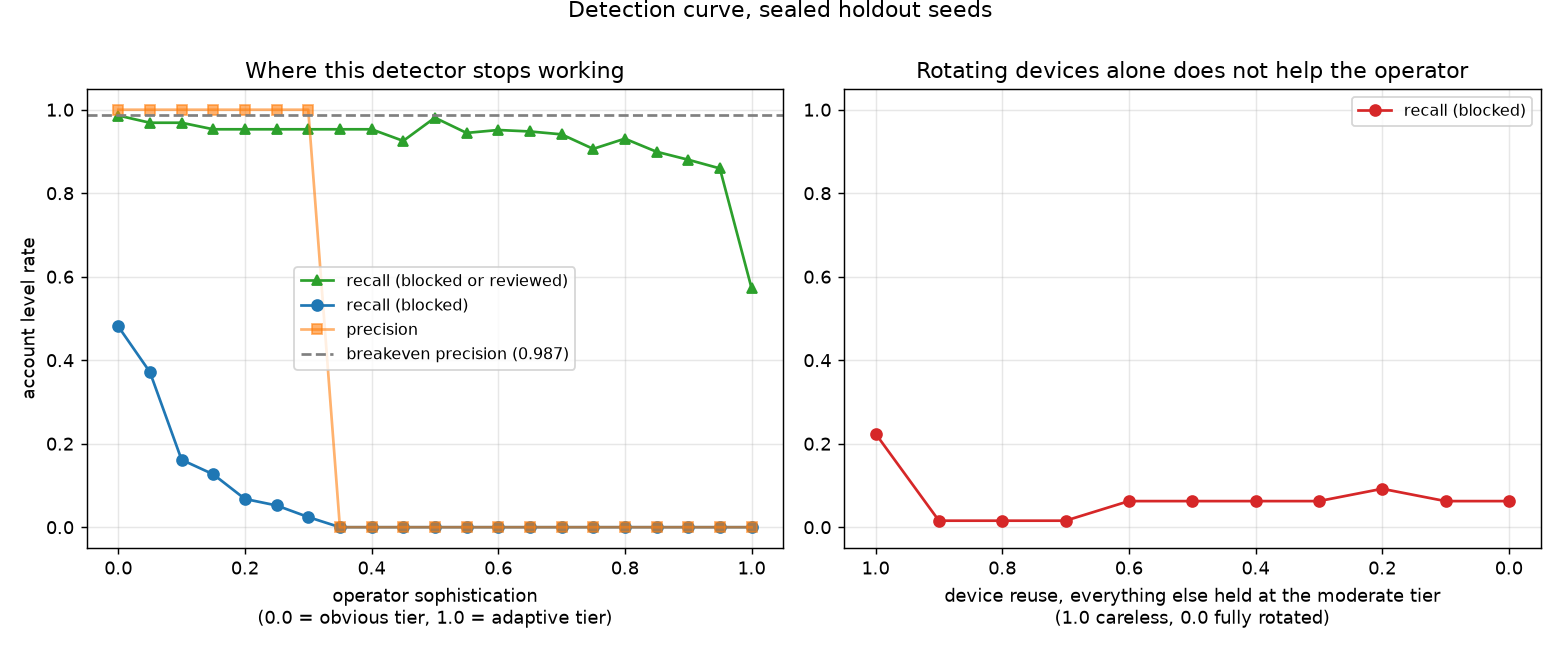
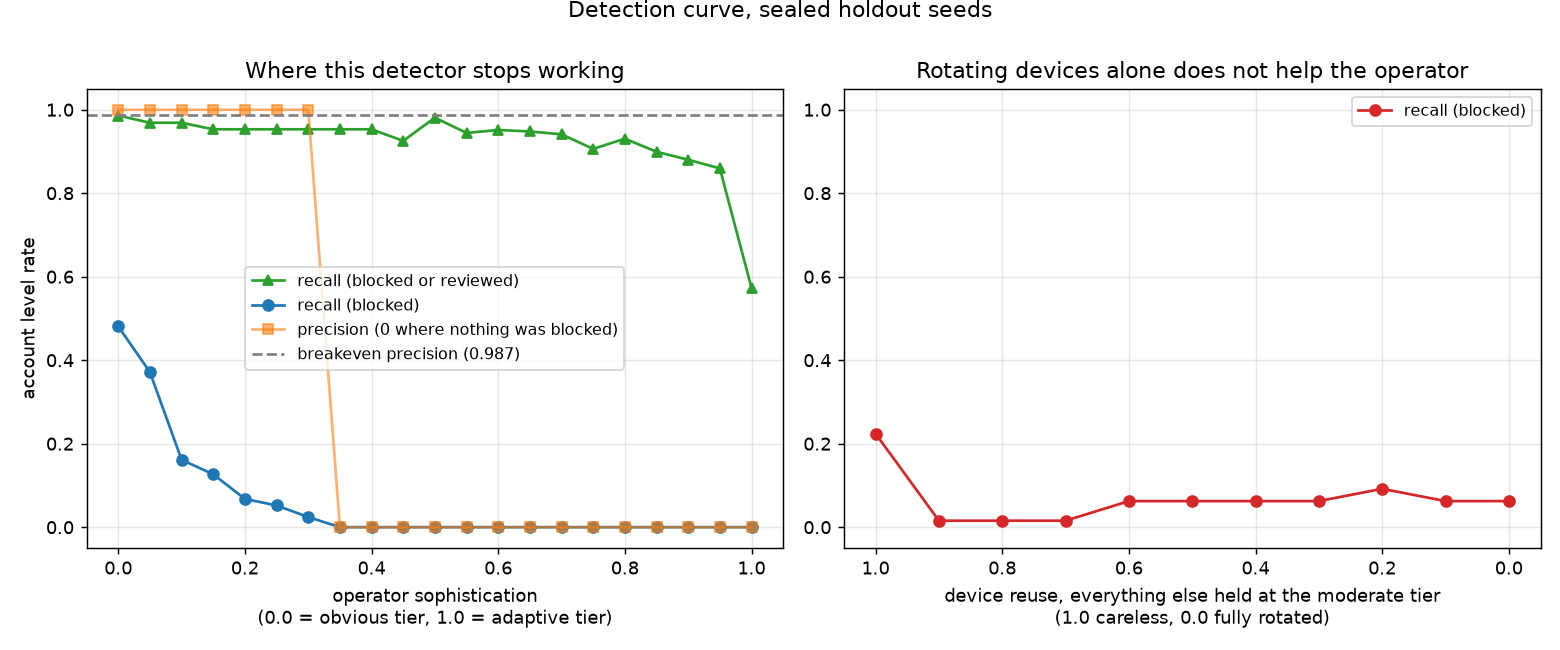
fix: report precision as undefined where nothing was blocked
The adaptive tier blocks zero accounts, so its precision is 0 of 0. Printing it
as 0.0000 reads as everything it blocked was wrong, which is a different and
untrue claim. It now reads n/a (no blocks) in the holdout results, the README,
the metrics report and the dashboard.

The same false zero was sitting on 14 points of the detection curve. Pooled
precision was already correct, since a tier that blocks nothing contributes no
numerator and no denominator, and a test now asserts that.

The holdout was re-run to regenerate the file. 422 of 437 values came back
identical and all 15 that moved are precision fields.

Changed region(s): [[0.1538, 0.4, 0.4, 0.5538], [0.3692, 0.5538, 0.4, 0.5846]]

diff --git a/ui/src/App.jsx b/ui/src/App.jsx
@@ -8,6 +8,8 @@ const TIERS = ["obvious", "moderate", "sophisticated", "adaptive"];
 const rupees = (n) =>
   (n < 0 ? "-" : "+") + "Rs." + Math.abs(Math.round(n)).toLocaleString("en-IN");
 const plain = (n) => "Rs." + Math.round(n).toLocaleString("en-IN");
+// Nothing blocked means precision is 0 of 0, which is undefined, not zero.
+const precision = (p) => (p === null || p === undefined ? "n/a (no blocks)" : p.toFixed(4));
 
 function useJson(name) {
   const [data, setData] = useState(null);
@@ -49,7 +51,7 @@ function Results({ holdout, baseline }) {
           items={[
             { label: "net against deploying nothing", value: rupees(pooled.net_vs_nothing_rupees),
               tone: pooled.net_vs_nothing_rupees >= 0 ? "pos" : "neg" },
-            { label: "precision, blocked accounts", value: pooled.precision.toFixed(4) },
+            { label: "precision, blocked accounts", value: precision(pooled.precision) },
             { label: "recall, blocked", value: pooled.recall.toFixed(4) },
             { label: "recall, blocked or reviewed", value: pooled.recall_including_review.toFixed(4) },
           ]}
@@ -71,7 +73,7 @@ function Results({ holdout, baseline }) {
                 <td>{t}</td>
                 <td>{m[t].n_clusters.toLocaleString()}</td>
                 <td>{m[t].pr_auc.toFixed(4)}</td>
-                <td>{m[t].precision.toFixed(4)}</td>
+                <td>{precision(m[t].precision)}</td>
                 <td>{m[t].recall.toFixed(4)}</td>
                 <td>{m[t].recall_including_review.toFixed(4)}</td>
                 <td>{m[t].brier.toFixed(5)}</td>
@@ -103,7 +105,7 @@ function Results({ holdout, baseline }) {
                 {TIERS.map((t) => (
                   <tr key={t}>
                     <td>{t}</td>
-                    <td>{baseline.tiers[t].precision.toFixed(4)}</td>
+                    <td>{precision(baseline.tiers[t].precision)}</td>
                     <td>{baseline.tiers[t].recall.toFixed(4)}</td>
                     <td className="neg">{rupees(baseline.tiers[t].net_vs_nothing_rupees)}</td>
                   </tr>
@@ -203,7 +205,7 @@ function Curve({ holdout }) {
     sophistication: c.sophistication,
     blocked: c.recall,
     withReview: c.recall_including_review,
-    precision: c.precision,
+    precision: c.precision ?? 0,
   }));
   const device = holdout.device_only_curve.map((c) => ({
     reuse: c.device_reuse, blocked: c.recall,

diff --git a/tests/test_precision_reporting.py b/tests/test_precision_reporting.py
@@ -1,0 +1,78 @@
+"""Blocking nothing gives 0 of 0, which is undefined rather than zero.
+
+Reporting it as 0.0000 reads as "everything it blocked was wrong", when in fact
+it blocked nothing at all. Those are different claims.
+"""
+
+import json
+
+import numpy as np
+import pandas as pd
+import pytest
+
+import config
+from detector import decide
+
+
+def _table(sizes, ring, innocent):
+    return pd.DataFrame({"size": sizes, "n_ring_members": ring,
+                         "n_innocent_members": innocent,
+                         "tier": ["adaptive"] * len(sizes),
+                         "seed": range(len(sizes)),
+                         "world_accounts": [12000] * len(sizes),
+                         "world_ring_accounts": [96] * len(sizes)})
+
+
+def test_precision_is_none_when_nothing_was_blocked():
+    table = _table([10, 10], [5, 0], [5, 10])
+    r = decide.score_policy(table, np.array(["review", "allow"]))
+    assert r["accounts_blocked"] == 0
+    assert r["precision"] is None
+
+
+def test_precision_is_a_real_zero_when_only_innocents_were_blocked():
+    """0 of 919 is defined and is genuinely zero. It must not become n/a."""
+    table = _table([10], [0], [10])
+    r = decide.score_policy(table, np.array(["block"]))
+    assert r["accounts_blocked"] == 10
+    assert r["precision"] == 0.0
+
+
+def test_the_formatter_says_what_undefined_means():
+    assert decide.format_precision(None) == "n/a (no blocks)"
+    assert decide.format_precision(0.0) == "0.0000"
+    assert decide.format_precision(0.9961) == "0.9961"
+
+
+def test_pooled_precision_leaves_the_undefined_tier_out():
+    """A tier that blocked nothing contributes no numerator and no denominator,
+    so it cannot drag the pooled figure down."""
+    with open("results/holdout.json") as f:
+        holdout = json.load(f)
+    matrix = holdout["results_matrix"]
+    tp = sum(r["tp"] for r in matrix.values())
+    fp = sum(r["fp"] for r in matrix.values())
+    assert holdout["pooled"]["precision"] == pytest.approx(tp / (tp + fp), abs=1e-4)
+
+    undefined = [t for t, r in matrix.items() if r["precision"] is None]
+    for t in undefined:
+        assert matrix[t]["tp"] == 0 and matrix[t]["fp"] == 0
+
+
+def test_the_adaptive_tier_blocked_nothing_on_the_holdout():
+    with open("results/holdout.json") as f:
+        holdout = json.load(f)
+    adaptive = holdout["results_matrix"]["adaptive"]
+    assert adaptive["accounts_blocked"] == 0
+    assert adaptive["precision"] is None, (
+        "blocking nothing must report as undefined, not 0.0000")
+
+
+def test_the_baseline_zero_is_left_alone():
+    """The rules baseline blocked 919 innocents and caught none. That is a
+    measured zero and must keep reading as one."""
+    with open("results/baseline_holdout.json") as f:
+        base = json.load(f)
+    adaptive = base["tiers"]["adaptive"]
+    assert adaptive["fp"] > 0
+    assert adaptive["precision"] == 0.0

diff --git a/detector/decide.py b/detector/decide.py
@@ -30,6 +30,13 @@ from detector import costs
 from detector.resources import announce, apply
 
 ACTIONS = ("block", "allow", "review")
+NO_BLOCKS = "n/a (no blocks)"
+
+
+def format_precision(precision, width: int = 0) -> str:
+    """Precision as text. Nothing blocked means undefined, not zero."""
+    text = NO_BLOCKS if precision is None else f"{precision:.4f}"
+    return f"{text:<{width}}" if width else text
 
 
 def expected_costs(purity: float | np.ndarray, n_accounts: int | np.ndarray,
@@ -119,7 +126,9 @@ def score_policy(table: pd.DataFrame, action: np.ndarray, **kw) -> dict:
         "accounts_reviewed": n_reviewed,
         "tp": tp, "fp": fp, "missed": missed,
         "ring_accounts_reviewed": ring_reviewed,
-        "precision": round(tp / (tp + fp), 4) if tp + fp else 0.0,
+        # 0 of 0 blocked is undefined, not zero. None says so, and every
+        # caller formats it as "n/a (no blocks)".
+        "precision": round(tp / (tp + fp), 4) if tp + fp else None,
         "recall": round(tp / n_ring_total, 4) if n_ring_total else 0.0,
         # Review is an action, not a miss: the account still reaches a human.
         "recall_including_review": round((tp + ring_reviewed) / n_ring_total, 4)
@@ -142,8 +151,7 @@ def sweep(table: pd.DataFrame, p: np.ndarray,
     rows = []
     for t in thresholds:
         r = score_policy(table, threshold_policy(p, t))
-        tp, fp = r["tp"], r["fp"]
-        prec, rec = r["precision"], r["recall"]
+        prec, rec = r["precision"] or 0.0, r["recall"]
         r["threshold"] = float(t)
         r["f1"] = round(2 * prec * rec / (prec + rec), 4) if prec + rec else 0.0
         rows.append(r)
@@ -277,7 +285,8 @@ def main() -> None:
                      ("three actions, expected cost rule", three)):
         thr = f"{r.get('threshold', float('nan')):.2f}" if "threshold" in r else "-"
         net = r["net_vs_nothing_rupees"]
-        print(f"{label:<34} {thr:<7} {r['precision']:<8.4f} {r['recall']:<8.4f} "
+        print(f"{label:<34} {thr:<7} {format_precision(r['precision'], 8)} "
+              f"{r['recall']:<8.4f} "
               f"{r['accounts_blocked']:<9,} {r['accounts_reviewed']:<10,} "
               f"Rs.{r['cost_rupees']:<12,} "
               f"{'+' if net >= 0 else '-'}Rs.{abs(net):,}")

diff --git a/detector/evaluate_holdout.py b/detector/evaluate_holdout.py
@@ -126,7 +126,7 @@ def device_only_curve(fitted: dict, n_accounts: int, seeds: list[int],
                          "precision": r["precision"]})
             print(f"  device reuse {reuse:.2f}: recall {r['recall']:.4f} "
                   f"(+review {r['recall_including_review']:.4f}), "
-                  f"precision {r['precision']:.4f}")
+                  f"precision {decide.format_precision(r['precision'])}")
     return rows
 
 
@@ -159,7 +159,7 @@ def detection_curve(fitted: dict, n_accounts: int, seeds: list[int],
         print(f"  sophistication {s_val:.2f} (device reuse "
               f"{tp['device_reuse']:.2f}, {tp['accounts_per_drop']:.1f} accounts "
               f"per drop): recall {r['recall']:.4f}, "
-              f"precision {r['precision']:.4f}")
+              f"precision {decide.format_precision(r['precision'])}")
     return rows
 
 
@@ -332,8 +332,8 @@ def plot_detection_curve(curve: list[dict], device_curve: list[dict],
     ax.plot(x, [c["recall_including_review"] for c in curve], "^-",
             c="tab:green", label="recall (blocked or reviewed)")
     ax.plot(x, [c["recall"] for c in curve], "o-", label="recall (blocked)")
-    ax.plot(x, [c["precision"] for c in curve], "s-", alpha=0.6,
-            label="precision")
+    ax.plot(x, [c["precision"] or 0.0 for c in curve], "s-", alpha=0.6,
+            label="precision (0 where nothing was blocked)")
     ax.axhline(costs.breakeven_precision(), ls="--", c="grey",
                label=f"breakeven precision ({costs.breakeven_precision():.3f})")
     ax.set_xlabel("operator sophistication\n"
@@ -406,7 +406,8 @@ def main() -> None:
     for tier, r in matrix.items():
         net = r["net_vs_nothing_rupees"]
         print(f"{tier:<15} {r['account_prevalence']:<11.5f} {r['n_clusters']:<9,} "
-              f"{r['pr_auc']:<9.4f} {r['precision']:<9.4f} {r['recall']:<9.4f} "
+              f"{r['pr_auc']:<9.4f} {decide.format_precision(r['precision'], 9)} "
+              f"{r['recall']:<9.4f} "
               f"{r['recall_including_review']:<9.4f} "
               f"{r['brier']:<9.5f} {r['accounts_blocked']:<9,} "
               f"{r['accounts_reviewed']:<10,} "

diff --git a/detector/report.py b/detector/report.py
@@ -14,6 +14,7 @@ import json
 import os
 
 import config
+from detector.decide import format_precision
 
 RESULTS = config.RESULTS_DIR
 
@@ -150,7 +151,8 @@ def build() -> str:
                            ("best two-action threshold", "cost_optimal"),
                            ("three actions, expected cost", "three_action")):
             r = dec[key]
-            out.append(f"| {label} | {r['precision']:.4f} | {r['recall']:.4f} "
+            out.append(f"| {label} | {format_precision(r['precision'])} | "
+                       f"{r['recall']:.4f} "
                        f"| {r['accounts_blocked']:,} | "
                        f"{r['accounts_reviewed']:,} | "
                        f"{rupees(r['net_vs_nothing_rupees'])} |")
@@ -176,13 +178,14 @@ def build() -> str:
                    "| Brier | net |")
         out.append("| --- | --- | --- | --- | --- | --- | --- |")
         for tier, r in ho["results_matrix"].items():
-            out.append(f"| {tier} | {r['pr_auc']:.4f} | {r['precision']:.4f} | "
+            out.append(f"| {tier} | {r['pr_auc']:.4f} | "
+                       f"{format_precision(r['precision'])} | "
                        f"{r['recall']:.4f} | "
                        f"{r['recall_including_review']:.4f} | "
                        f"{r['brier']:.5f} | "
                        f"{rupees(r['net_vs_nothing_rupees'])} |")
         p = ho["pooled"]
-        out.append(f"\nPooled: precision {p['precision']:.4f}, recall "
+        out.append(f"\nPooled: precision {format_precision(p['precision'])}, recall "
                    f"{p['recall']:.4f}, recall including review "
                    f"{p['recall_including_review']:.4f}, "
                    f"**{rupees(p['net_vs_nothing_rupees'])}** against "

diff --git a/tests/test_readme.py b/tests/test_readme.py
@@ -41,7 +41,8 @@ def test_the_results_table_matches_the_holdout_file(readme, holdout):
                     if line.strip().startswith(f"| {tier} |")
                     or line.strip().startswith(f"| **{tier}** |")), None)
         assert row, f"no README row for {tier}"
-        for value in (f"{r['pr_auc']:.4f}", f"{r['precision']:.4f}",
+        from detector.decide import format_precision
+        for value in (f"{r['pr_auc']:.4f}", format_precision(r["precision"]),
                       f"{r['recall']:.4f}",
                       f"{r['recall_including_review']:.4f}"):
             assert value in row, f"{tier}: {value} missing from README row"
@@ -53,7 +54,8 @@ def test_the_pooled_figure_matches(readme, holdout):
     pooled = holdout["pooled"]
     assert f"Rs.{pooled['net_vs_nothing_rupees']:,}" in readme
     assert f"Rs.{pooled['do_nothing_rupees']:,}" in readme
-    assert f"{pooled['precision']:.4f}" in readme
+    from detector.decide import format_precision
+    assert format_precision(pooled["precision"]) in readme
 
 
 def test_the_baseline_comparison_uses_the_same_worlds(readme):

diff --git a/README.md b/README.md
@@ -41,7 +41,7 @@ once. Never averaged across tiers, because the variation is the finding.
 | obvious | 0.9974 | 1.0000 | 0.5016 | 0.9931 | 0.00067 | 4,815 | 5,054 | **+Rs.1,148,700** |
 | moderate | 0.9971 | 1.0000 | 0.1425 | 0.9609 | 0.00055 | 1,368 | 8,504 | **+Rs.569,400** |
 | sophisticated | 0.9763 | 0.9961 | 0.0266 | 0.9129 | 0.00162 | 256 | 9,298 | **+Rs.343,100** |
-| **adaptive** | 0.8046 | **0.0000** | **0.0000** | 0.5669 | 0.01035 | **0** | 5,977 | +Rs.191,850 |
+| **adaptive** | 0.8046 | **n/a (no blocks)** | **0.0000** | 0.5669 | 0.01035 | **0** | 5,977 | +Rs.191,850 |
 
 Pooled: precision **0.9998**, recall 0.1677, recall including review 0.8585,
 total loss Rs.5,426,950 against Rs.7,680,000 for deploying nothing, so
@@ -50,7 +50,9 @@ total loss Rs.5,426,950 against Rs.7,680,000 for deploying nothing, so
 Read the `adaptive` row before anything else. Against an operator who rotates
 every device, uses a different delivery address for every account, spreads
 signups over six weeks and has 15% of accounts behave like real customers, this
-system **blocks nothing at all**. It still saves money, because it routes 57% of
+system **blocks nothing at all**. Its precision is reported as `n/a` rather than
+0.0000, because 0 of 0 blocked is undefined. Printing it as a zero would read as
+"everything it blocked was wrong", which is a different and untrue claim. It still saves money, because it routes 57% of
 those ring accounts to a human instead of throwing customers away, but as an
 automatic detector it does not work there and the table says so.
 

diff --git a/docs/METRICS.md b/docs/METRICS.md
@@ -114,7 +114,7 @@ Seeds 900 to 999, 100 worlds per tier, 12,000 accounts each. Opened once.
 | obvious | 0.9974 | 1.0000 | 0.5016 | 0.9931 | 0.00067 | +Rs.1,148,700 |
 | moderate | 0.9971 | 1.0000 | 0.1425 | 0.9609 | 0.00055 | +Rs.569,400 |
 | sophisticated | 0.9763 | 0.9961 | 0.0266 | 0.9129 | 0.00162 | +Rs.343,100 |
-| adaptive | 0.8046 | 0.0000 | 0.0000 | 0.5669 | 0.01035 | +Rs.191,850 |
+| adaptive | 0.8046 | n/a (no blocks) | 0.0000 | 0.5669 | 0.01035 | +Rs.191,850 |
 
 Pooled: precision 0.9998, recall 0.1677, recall including review 0.8585, **+Rs.2,253,050** against Rs.7,680,000 for doing nothing.
 

diff --git a/docs/STATUS.md b/docs/STATUS.md
@@ -28,7 +28,7 @@ A full account of everything built is in `docs/built_till_now.md`.
 | item | state |
 | ---- | ----- |
 | 1. Review accuracy sensitivity | done. Break-even reviewer accuracy 0.5753 pooled |
-| 2. Undefined precision | not started |
+| 2. Undefined precision | done. Adaptive precision reads `n/a (no blocks)` everywhere |
 | 3. Bounded review capacity | not started |
 | 4. Ninety-second version | not started |
 | 5. Adversarial loop | not started |
